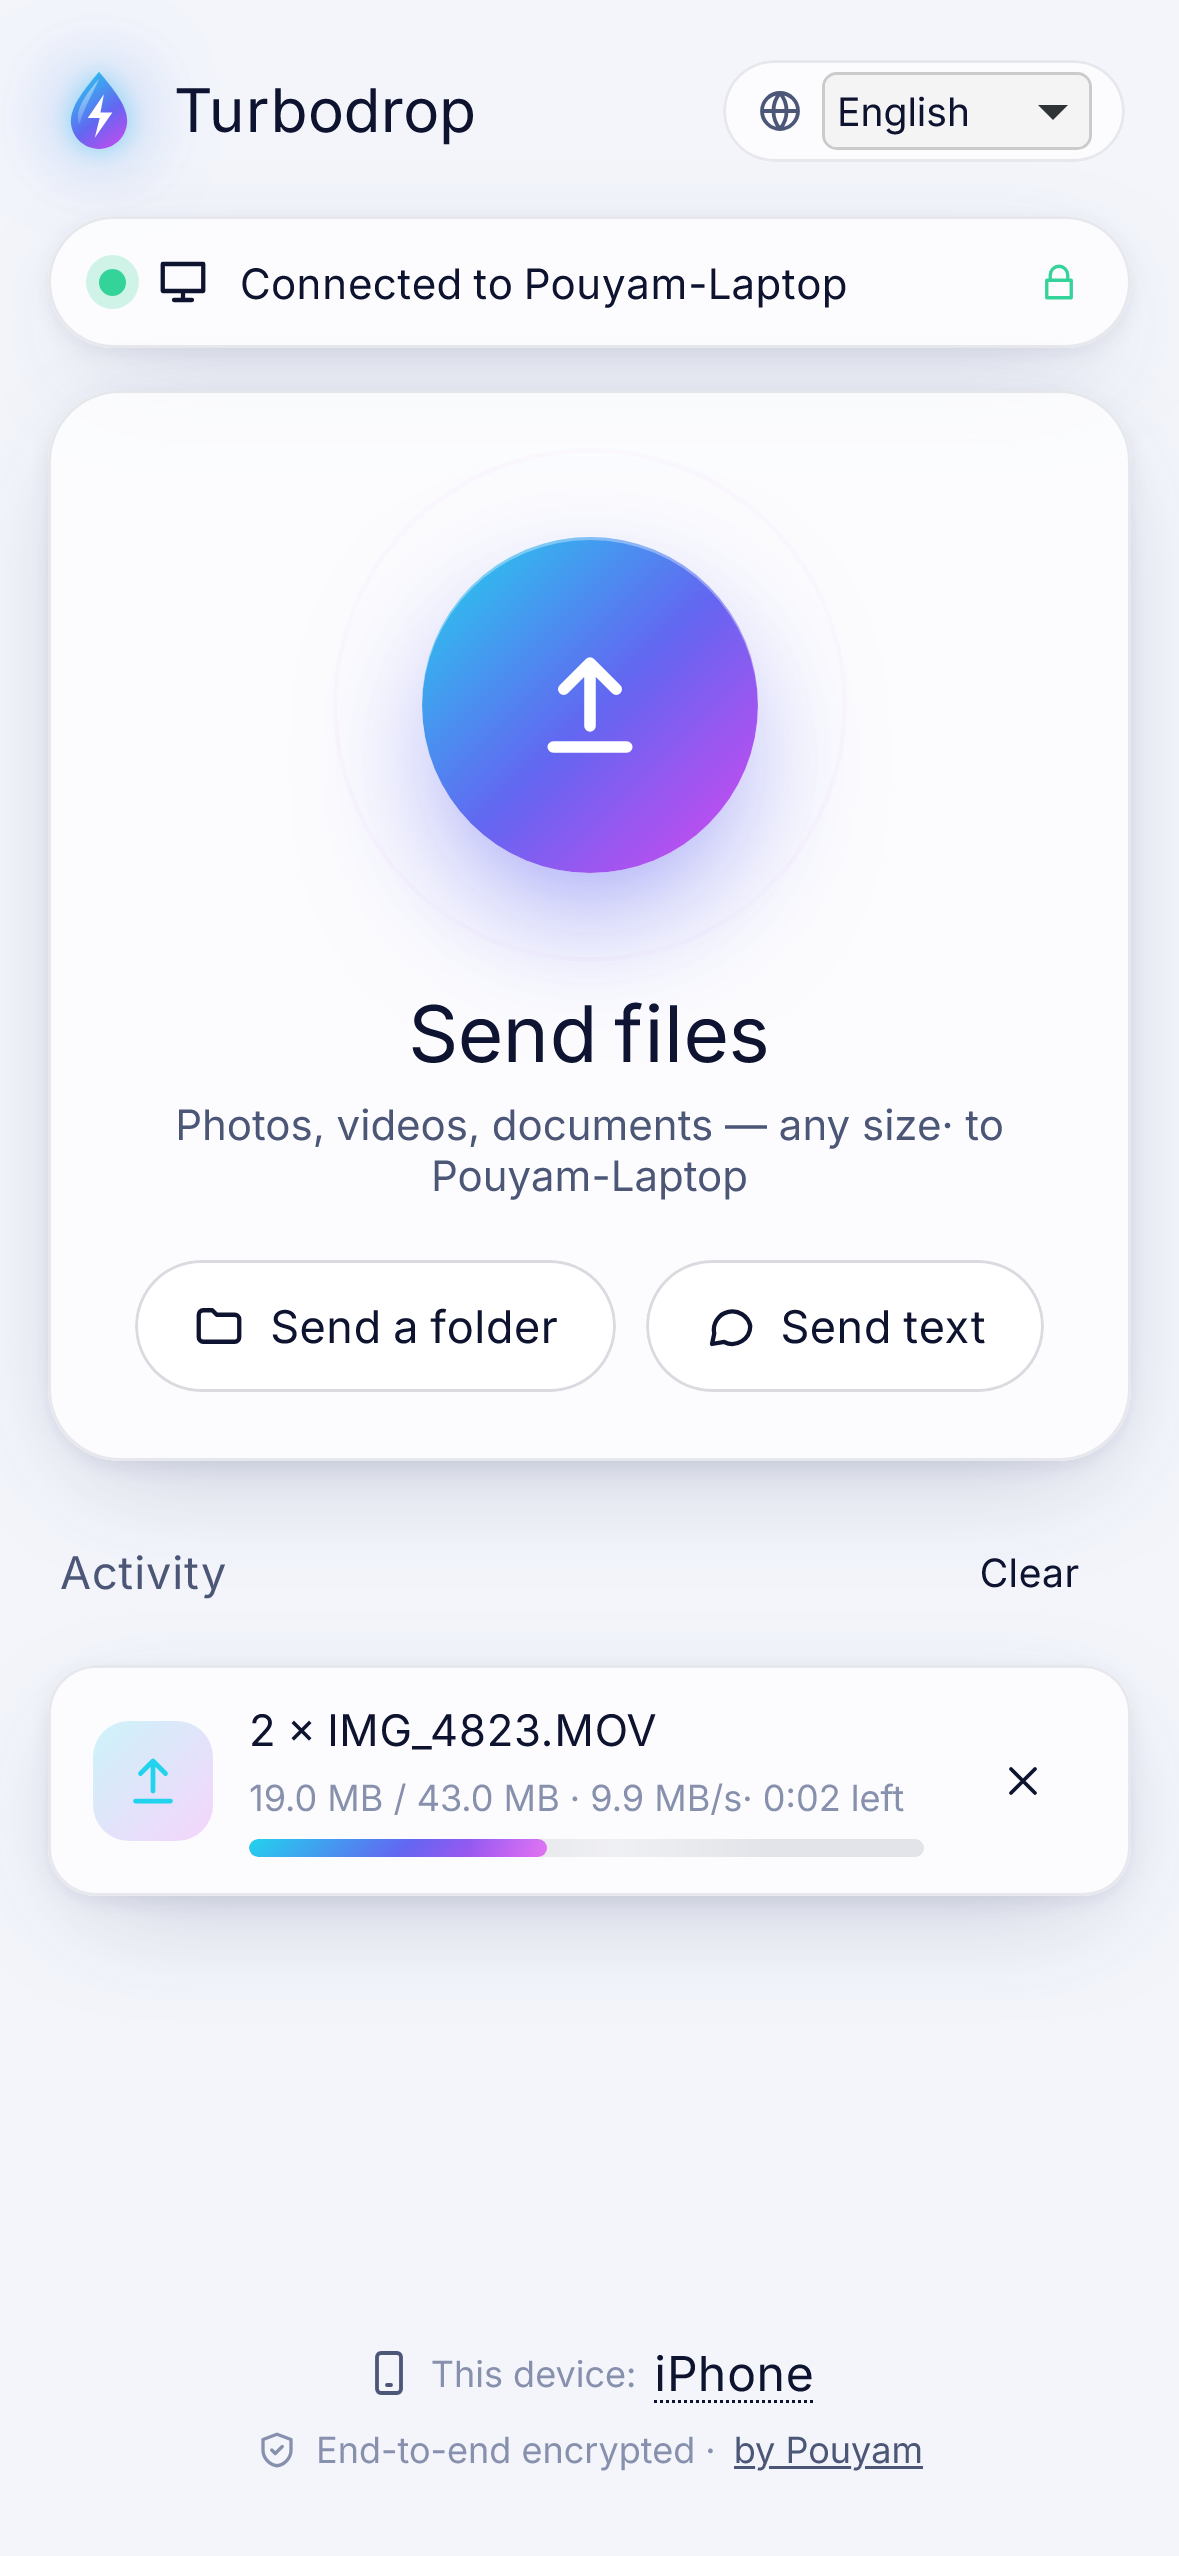
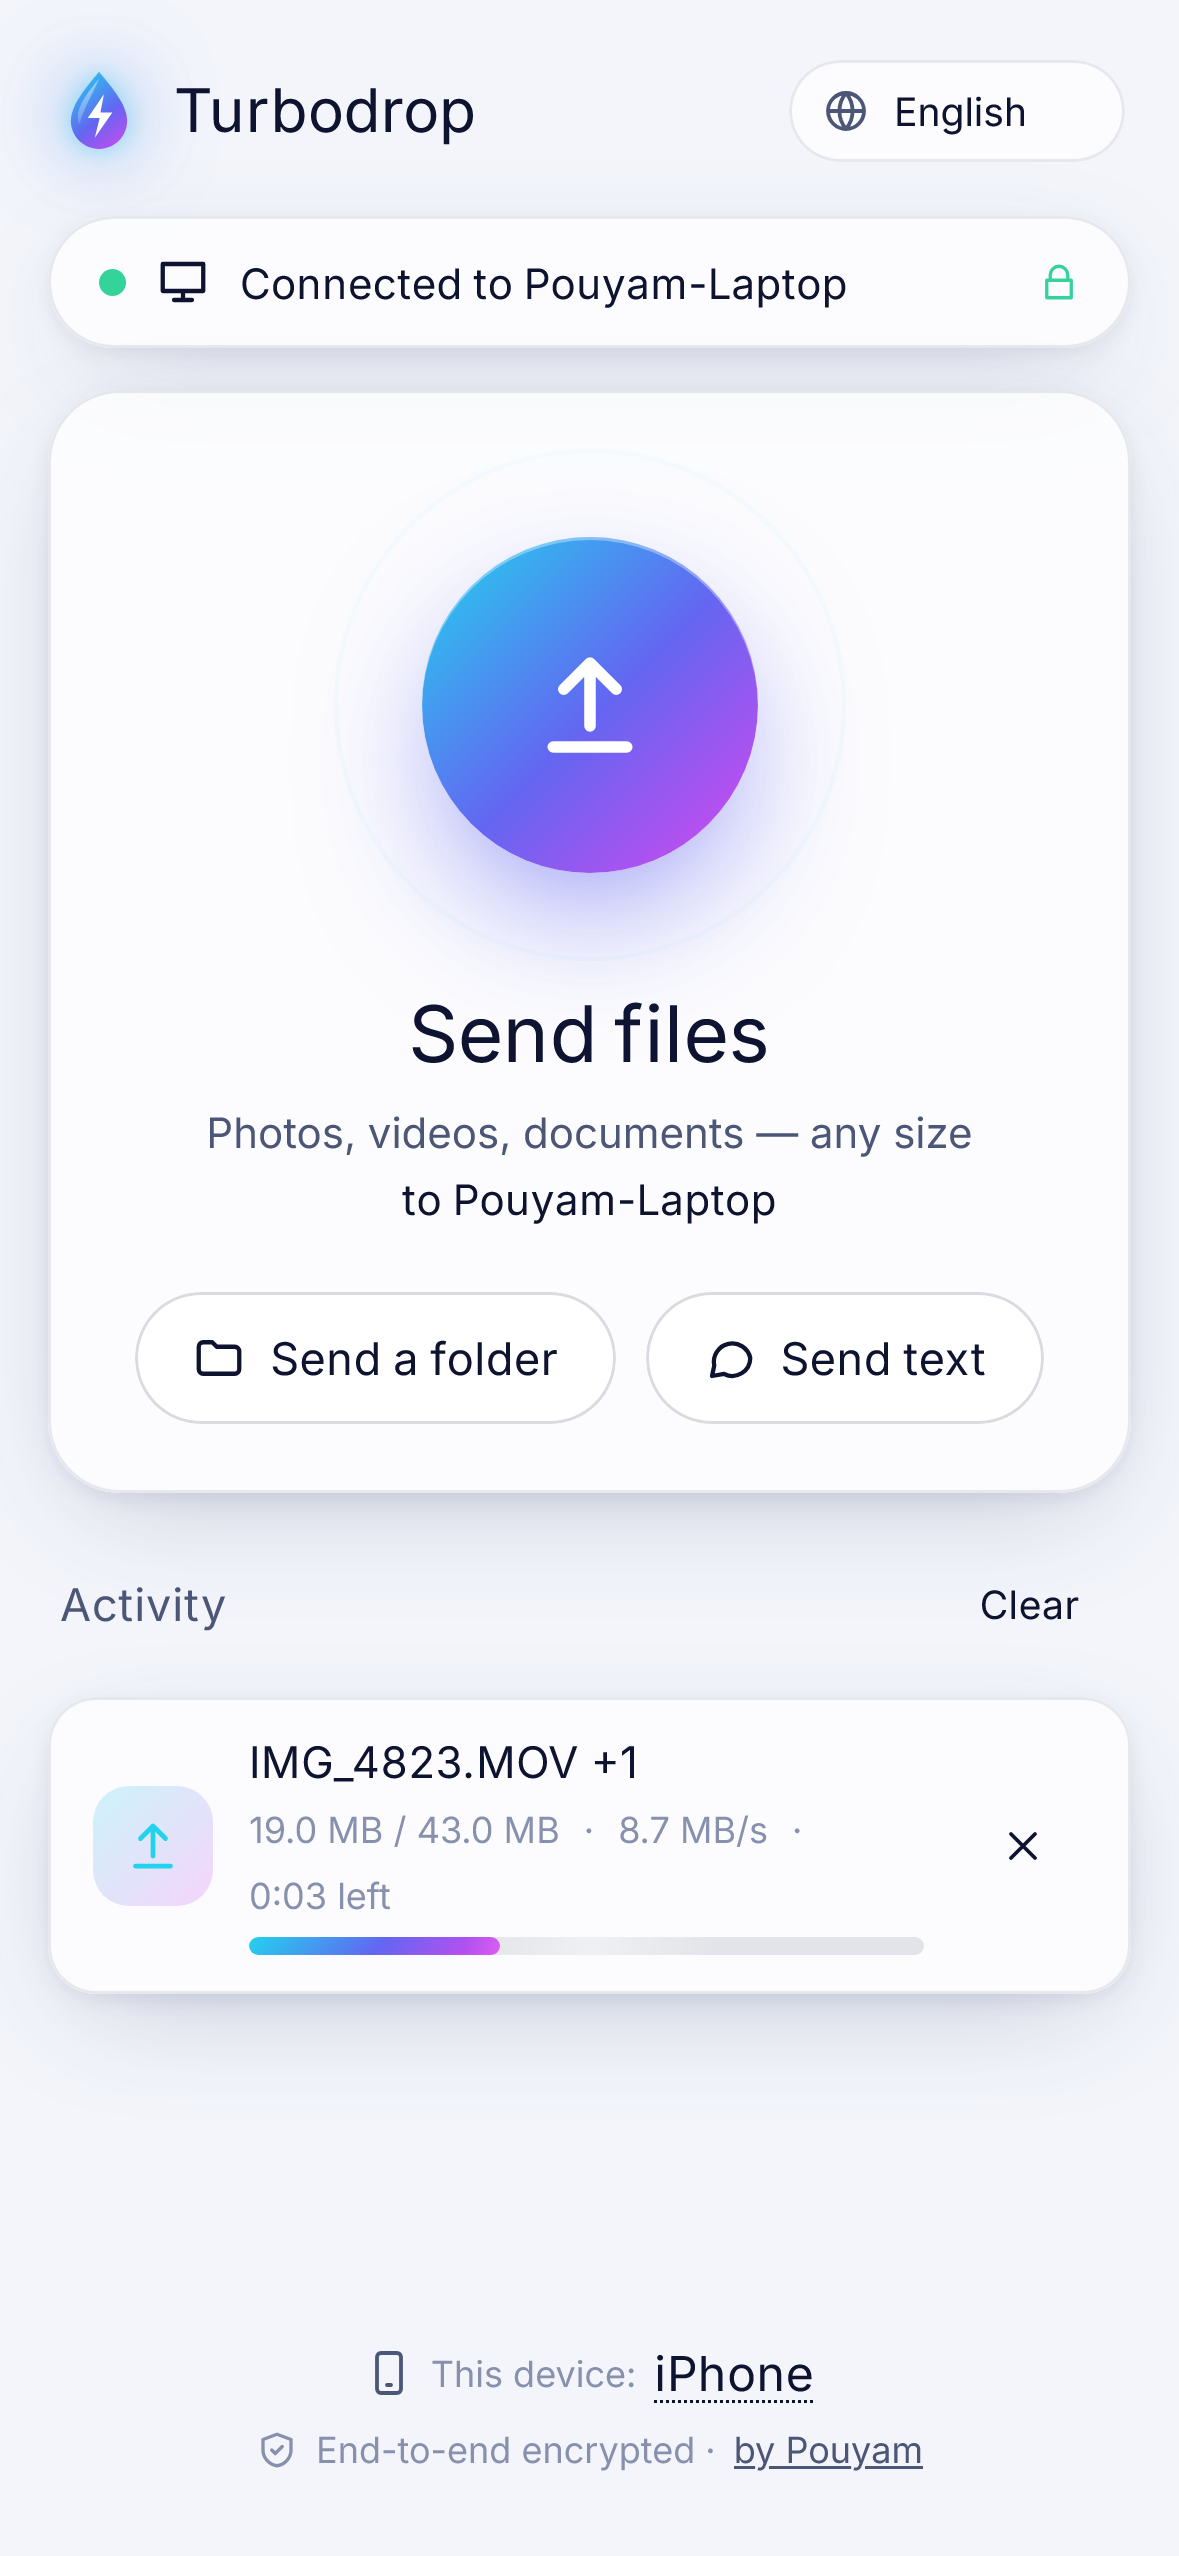
OG card, bidi-safe numbers, multi-file titles, refreshed screenshots

diff --git a/scripts/shots/og.html b/scripts/shots/og.html
@@ -1,0 +1,38 @@
+<!doctype html>
+<html>
+<head>
+<meta charset="utf-8" />
+<style>
+  @font-face { font-family: Inter; src: url('../../node_modules/@fontsource-variable/inter/files/inter-latin-wght-normal.woff2') format('woff2'); font-weight: 100 900; }
+  html, body { margin: 0; width: 1280px; height: 640px; overflow: hidden; background: #06080f; font-family: Inter, sans-serif; color: #eef2ff; }
+  .bg { position: absolute; inset: 0; background:
+      radial-gradient(520px 380px at 12% 18%, rgba(34,211,238,.28), transparent 70%),
+      radial-gradient(560px 420px at 92% 10%, rgba(217,70,239,.25), transparent 70%),
+      radial-gradient(700px 420px at 60% 110%, rgba(99,102,241,.35), transparent 70%); }
+  .left { position: absolute; left: 70px; top: 92px; width: 560px; }
+  .brand { display: flex; align-items: center; gap: 16px; font-weight: 800; font-size: 34px; letter-spacing: -.02em; }
+  h1 { font-size: 66px; line-height: 1.02; letter-spacing: -.045em; margin: 34px 0 20px; font-weight: 800; }
+  .g { background: linear-gradient(135deg,#22d3ee,#6366f1 52%,#d946ef); -webkit-background-clip: text; color: transparent; }
+  p { font-size: 25px; line-height: 1.45; color: #a3adc8; margin: 0; }
+  .chips { display: flex; gap: 10px; margin-top: 30px; flex-wrap: wrap; }
+  .chip { padding: 8px 16px; border-radius: 99px; border: 1px solid rgba(255,255,255,.14); background: rgba(255,255,255,.06); font-size: 18px; font-weight: 600; }
+  .desk { position: absolute; left: 640px; top: 110px; width: 760px; border-radius: 16px; border: 1px solid rgba(255,255,255,.12);
+    box-shadow: 0 40px 100px -20px rgba(99,102,241,.6); transform: perspective(1400px) rotateY(-14deg) rotateX(4deg); transform-origin: left center; }
+  .phone { position: absolute; left: 1010px; top: 250px; width: 200px; border-radius: 30px; border: 5px solid #151a2c;
+    box-shadow: 0 30px 80px -10px rgba(0,0,0,.8), 0 0 60px -10px rgba(34,211,238,.5); }
+  .by { position: absolute; left: 70px; bottom: 44px; font-size: 18px; color: #6d7896; }
+</style>
+</head>
+<body>
+  <div class="bg"></div>
+  <div class="left">
+    <div class="brand"><img src="../../web/public/favicon.svg" width="54" height="54" />Turbodrop</div>
+    <h1>Like AirDrop,<br /><span class="g">for every device.</span></h1>
+    <p>Windows ⇄ iPhone ⇄ Android ⇄ Mac ⇄ Linux.<br />The phone just scans a QR code — no app.</p>
+    <div class="chips"><span class="chip">🔒 End-to-end encrypted</span><span class="chip">⏯ Resumable</span><span class="chip">Open source</span></div>
+  </div>
+  <img class="desk" src="../../docs/screenshots/desktop-home.png" />
+  <img class="phone" src="../../docs/screenshots/phone-receive.png" />
+  <div class="by">by Pouyam · pouyam.com</div>
+</body>
+</html>

diff --git a/web/src/components/OutgoingCard.svelte b/web/src/components/OutgoingCard.svelte
@@ -11,7 +11,7 @@
   const live = $derived(tr.status === 'active' || tr.status === 'retrying' || tr.status === 'waiting');
   const resumed = $derived(tr.files.some((f) => f.resumed));
   const allSkipped = $derived(tr.files.length > 0 && tr.files.every((f) => f.status === 'skipped'));
-  const title = $derived(tr.text && !tr.files.length ? tr.text : tr.files.length === 1 ? tr.files[0].meta.name : `${tr.files.length} × ${tr.files[0]?.meta.path.split('/')[0] ?? ''}`);
+  const title = $derived(tr.text && !tr.files.length ? tr.text : tr.files.length === 1 ? tr.files[0].meta.name : `${tr.files[0].meta.path.split('/')[0]} +${tr.files.length - 1}`);
 </script>
 
 <article class="card glass" class:failed={tr.status === 'failed' || tr.status === 'declined'}>
@@ -38,9 +38,9 @@
       {:else if tr.status === 'canceled'}
         {t('tr.canceled')}
       {:else if tr.status === 'done'}
-        {allSkipped ? t('out.skipped') : t('out.done')}{#if total} · {bytes(total)}{/if}
+        {allSkipped ? t('out.skipped') : t('out.done')}{#if total} · <bdi>{bytes(total)}</bdi>{/if}
       {:else}
-        {bytes(done)} / {bytes(total)} · {speed(tr.speed)}{#if tr.speed > 0} · {t('tr.left', { time: eta((total - done) / tr.speed) })}{/if}
+        <bdi>{bytes(done)} / {bytes(total)}</bdi> · <bdi>{speed(tr.speed)}</bdi>{#if tr.speed > 0} · <bdi>{t('tr.left', { time: eta((total - done) / tr.speed) })}</bdi>{/if}
       {/if}
       {#if resumed && tr.status !== 'done'}
         <span class="chip">{t('out.resumed')}</span>

diff --git a/web/src/components/IncomingCard.svelte b/web/src/components/IncomingCard.svelte
@@ -84,7 +84,7 @@
 
     {#if tr.status === 'active'}
       <div class="progress"><i style="width:{pct}%"></i></div>
-      <div class="tiny">{t('in.receiving')} {bytes(done)} / {bytes(total)} · {speed(tr.speed)}{#if tr.speed > 0} · {t('tr.left', { time: eta((total - done) / tr.speed) })}{/if}</div>
+      <div class="tiny">{t('in.receiving')} <bdi>{bytes(done)} / {bytes(total)}</bdi> · <bdi>{speed(tr.speed)}</bdi>{#if tr.speed > 0} · <bdi>{t('tr.left', { time: eta((total - done) / tr.speed) })}</bdi>{/if}</div>
     {:else if tr.status === 'offered'}
       <div class="tiny">{t('in.bigHint', { size: bytes(total) })}</div>
       <div class="actions">

diff --git a/apps/desktop/src/components/TransferRow.svelte b/apps/desktop/src/components/TransferRow.svelte
@@ -37,7 +37,7 @@
       <span>{tr.direction === 'in' ? t('tr.in', { name: tr.peerName }) : t('tr.out', { name: tr.peerName })}</span>
       <span>·</span>
       {#if tr.status === 'active'}
-        <span class="ltr">{bytes(tr.doneBytes)} / {bytes(tr.totalBytes)}</span><span>·</span><span>{speed(tr.speed)}</span>
+        <bdi>{bytes(tr.doneBytes)} / {bytes(tr.totalBytes)}</bdi><span>·</span><bdi>{speed(tr.speed)}</bdi>
         {#if tr.speed > 0}<span>· {t('tr.left', { time: eta((tr.totalBytes - tr.doneBytes) / tr.speed) })}</span>{/if}
       {:else}
         <span class="st {tr.status}">{allSkipped ? t('tr.skipped') : t(statusKey)}</span>

diff --git a/README.fa.md b/README.fa.md
@@ -66,7 +66,7 @@
 
 ### ۱) نصب روی ویندوز
 
-1. فایل **`Turbodrop_x64-setup.exe`** را از [صفحهٔ Releases](https://github.com/pouyamsmartcity/turbodrop/releases/latest) دانلود و اجرا کنید. نصب فقط برای کاربر فعلی انجام میشود و دسترسی ادمین نمیخواهد.
+1. فایل **`Turbodrop_<نسخه>_x64-setup.exe`** را از [صفحهٔ Releases](https://github.com/pouyamsmartcity/turbodrop/releases/latest) دانلود و اجرا کنید. نصب فقط برای کاربر فعلی انجام میشود و دسترسی ادمین نمیخواهد.
 2. بار اول، فایروال ویندوز میپرسد که توربودراپ اجازهٔ استفاده از شبکه را دارد یا نه. گزینهٔ **Private networks** را تیک بزنید و Allow را بزنید.
 3. چون نصبکننده هنوز امضای دیجیتال ندارد، ممکن است پیام «Windows protected your PC» نمایش داده شود. روی **More info** و بعد **Run anyway** بزنید. همهٔ نسخهها را GitHub Actions مستقیم از همین مخزن میسازد.
 

diff --git a/README.md b/README.md
@@ -88,7 +88,7 @@ LocalSend is a fantastic project with apps in every store; if both sides already
 
 ### Windows (the flagship app)
 
-Download **`Turbodrop_x64-setup.exe`** from [Releases](https://github.com/pouyamsmartcity/turbodrop/releases/latest) and run it. It installs for your user only (no admin). On first launch Windows Firewall asks whether Turbodrop may use the network — allow **Private networks**.
+Download **`Turbodrop_<version>_x64-setup.exe`** from [Releases](https://github.com/pouyamsmartcity/turbodrop/releases/latest) and run it. It installs for your user only (no admin). On first launch Windows Firewall asks whether Turbodrop may use the network — allow **Private networks**.
 
 > The installer is not code-signed yet, so SmartScreen may say “Windows protected your PC”. Click **More info → Run anyway**. Every release is built by [GitHub Actions](.github/workflows/release.yml) from this repository.
 
